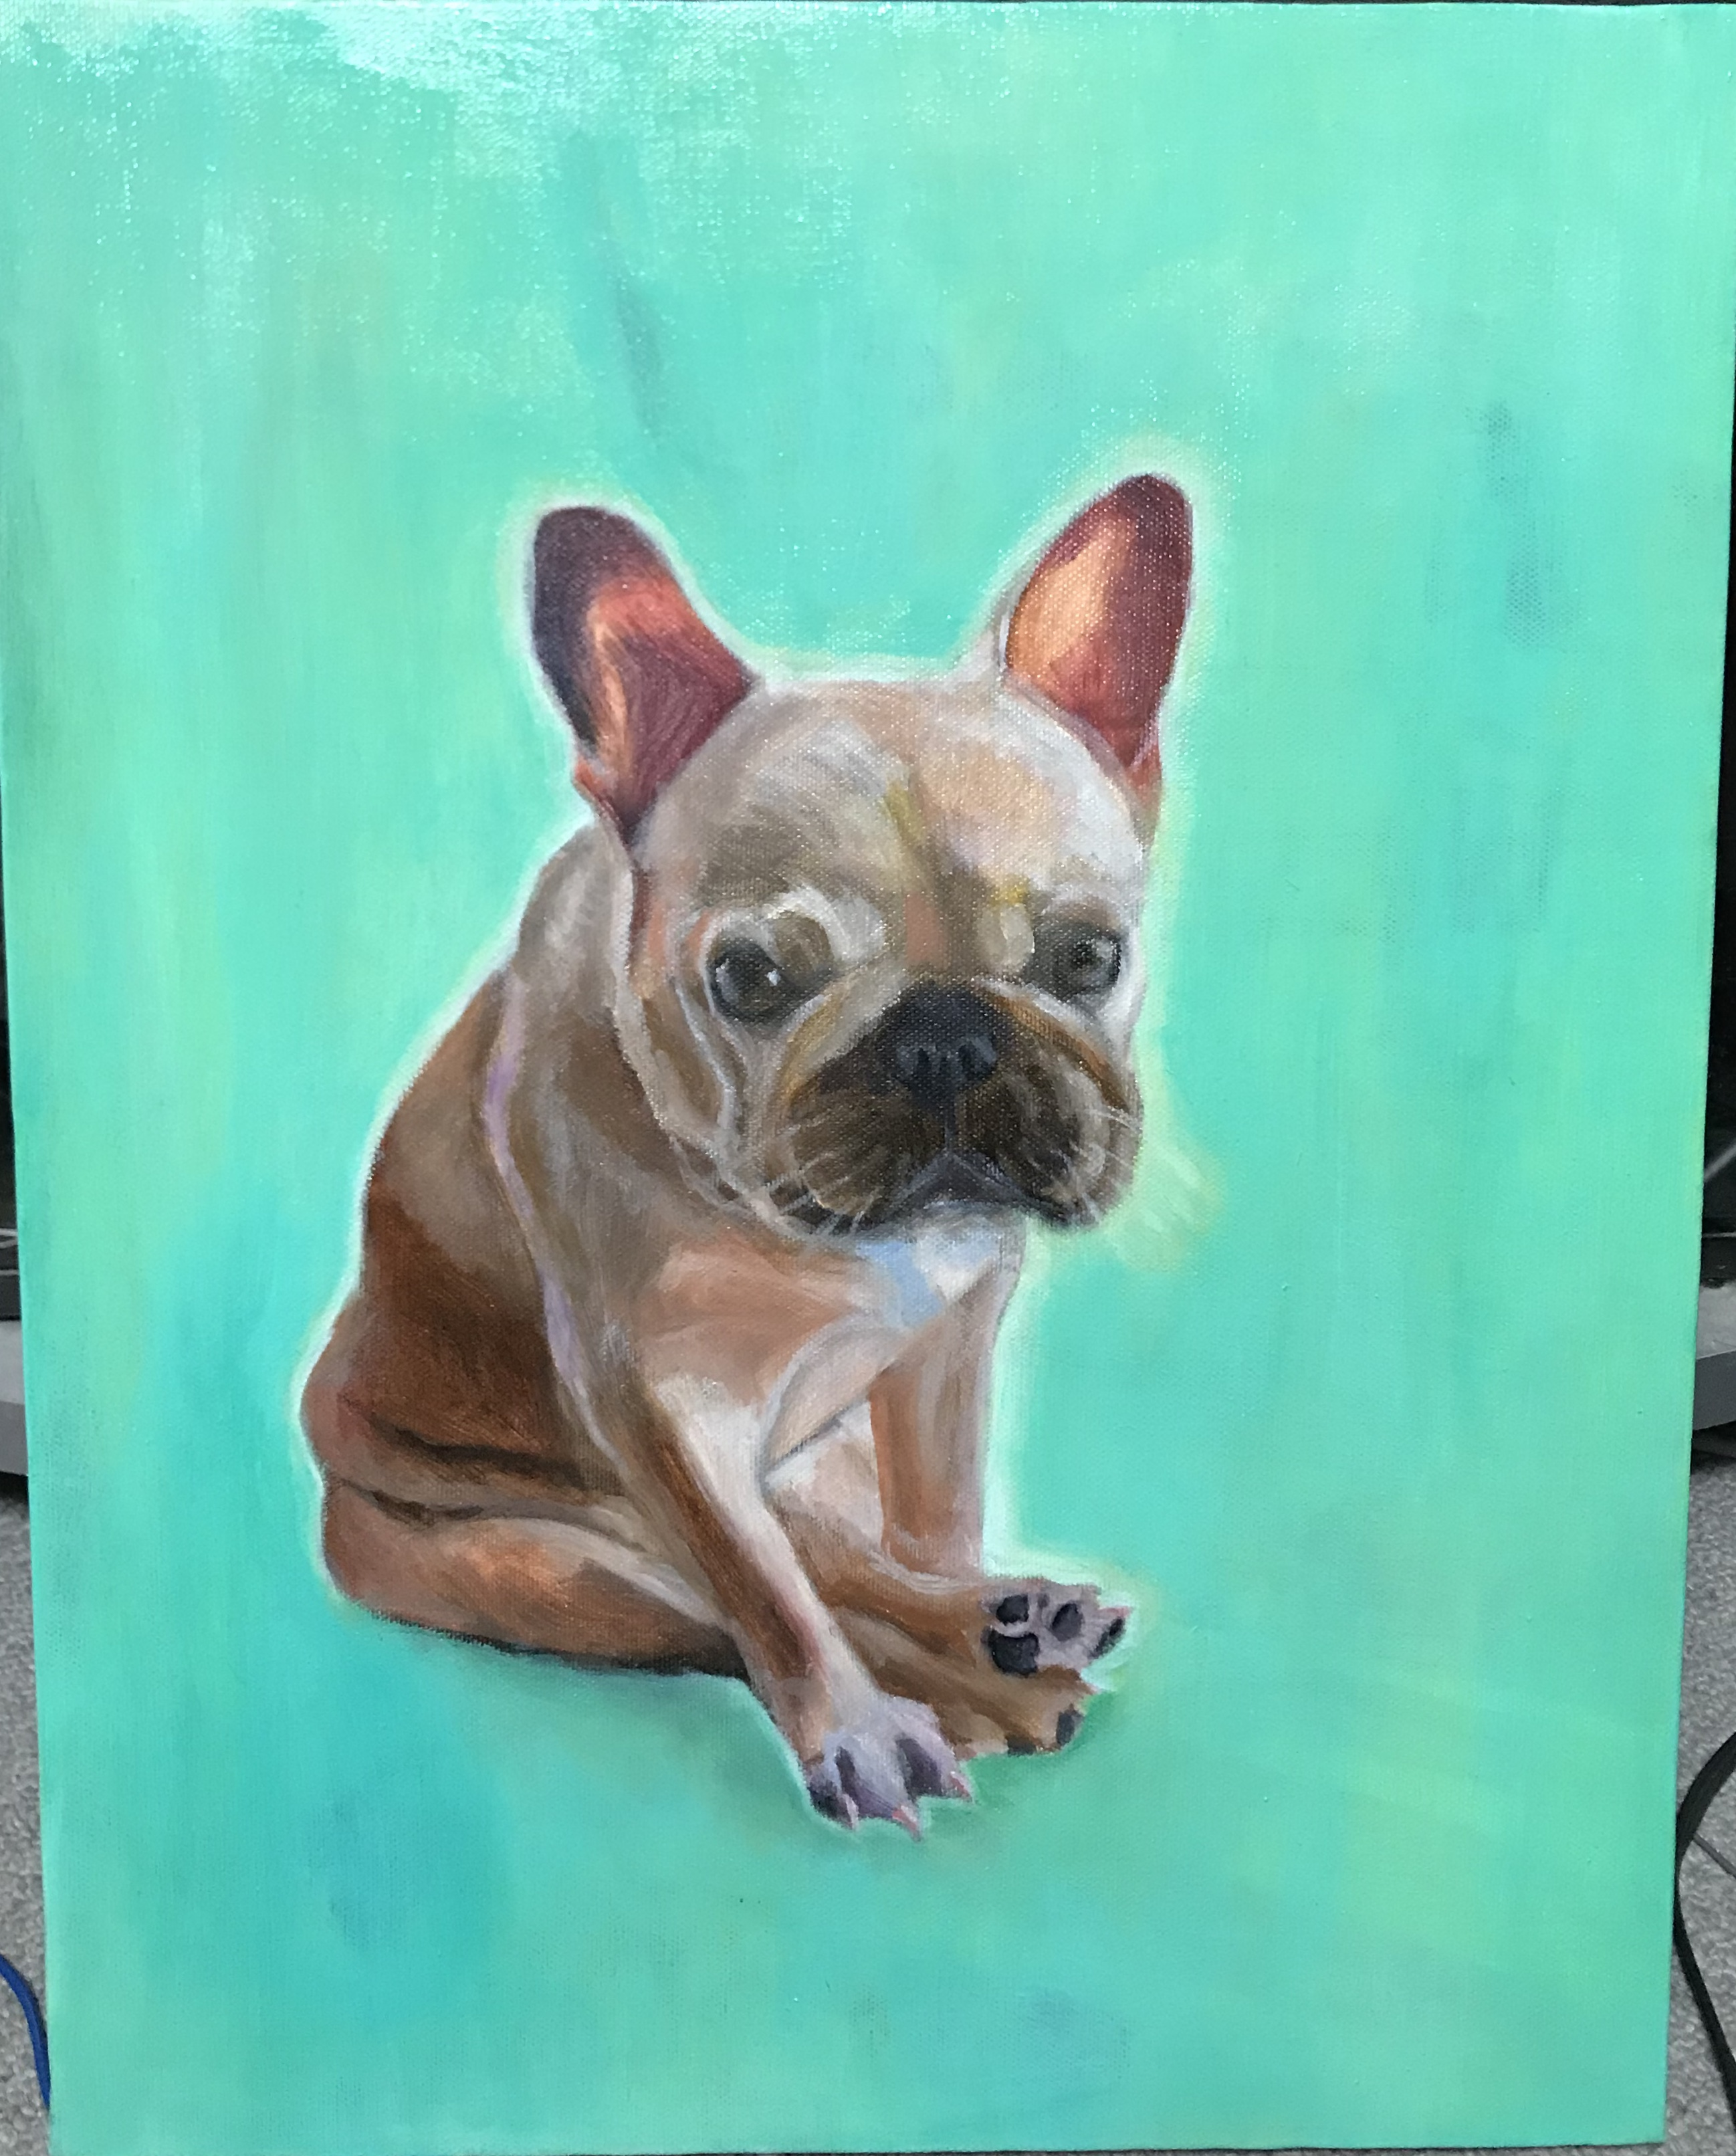
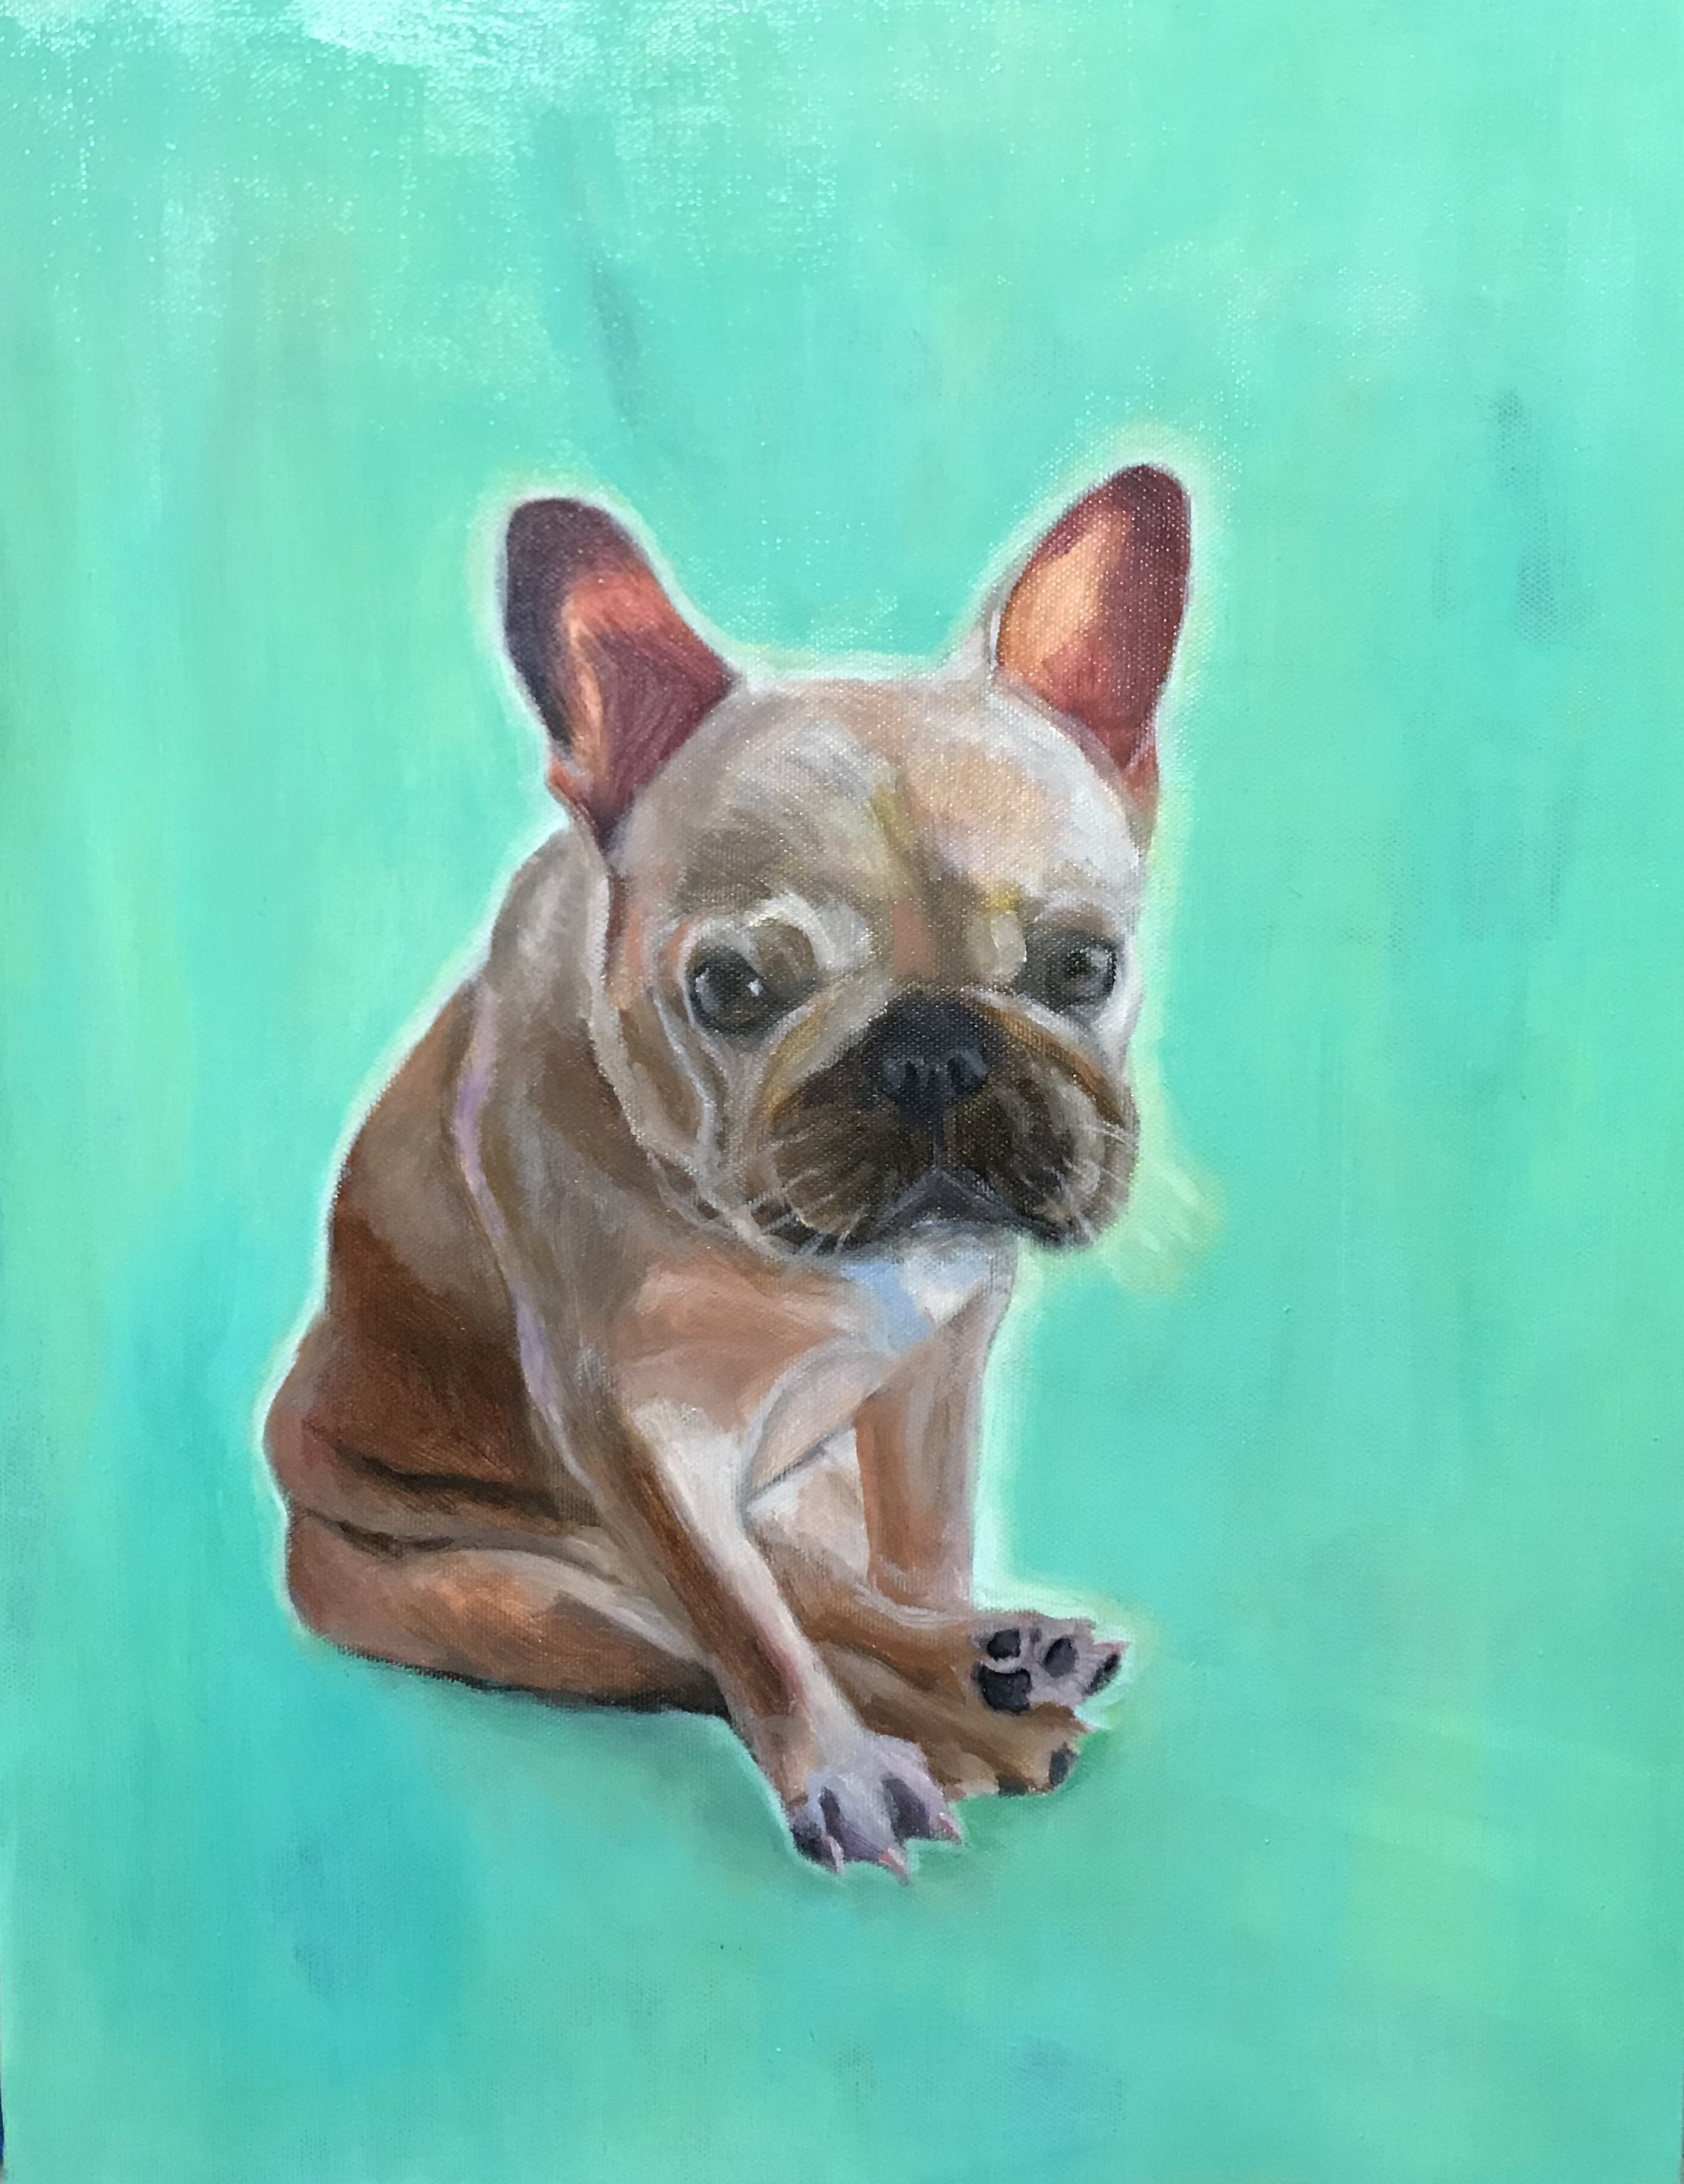
ポートフォリオを更新

diff --git a/index.html b/index.html
@@ -257,26 +257,26 @@
 
   <script>
     const photos = [
-      { id: 10, file: 'wolf3.jpeg', cat: 'art', w: 800, h: 600, title: '作品タイトル 01「蒼の狼」', specs: { size: 'F6号 (410×318mm)', date: '2024年 3月', time: '1週間', medium: '油彩・キャンバス' }, concept: '光と影のコントラストを意識し、静かにたたずむ狼を描きました。毛並みの質感や横顔の力強さを丁寧に表現し、自然の中で生きる狼の落ち着いた雰囲気が伝わる作品を目指しました。' },
-      { id: 20, file: 'degi1.png',cat: 'illustration', w: 600, h: 800, title: '作品タイトル 02「Neon Wolf」', specs: { size: '(500×500px)', date: '2024年 1月', time: '1日', tool: 'Medibang' }, concept: '狼が走り出す瞬間をイメージし、動きやスピード感が伝わるように制作しました。鮮やかな色使いで躍動感を表現し、普段のリアルな作品とは違った雰囲気に挑戦しました。' },
-      { id: 30, file: 'aq3.jpeg', cat: 'art', w: 800, h: 530, title: '作品タイトル 03「絆」', specs: { size: 'F6号 (410×318mm)', date: '2023年 11月', time: '3週間', medium: 'アクリル・キャンバス' }, concept: '狼同士の絆や安心感が伝わる作品を目指しました。それぞれの表情や毛並みの違いを意識し、温かい雰囲気になるよう制作しました。' },
+      { id: 10, file: 'wolf3.jpeg', cat: 'art', w: 800, h: 600, title: '作品タイトル 01「蒼い空」', specs: { size: 'F6号 (410×318mm)', date: '2014年 9月', time: '1週間', medium: '油彩・キャンバス' }, concept: '光と影のコントラストを意識し、青空に静かにたたずむ狼を描きました。毛並みの質感や横顔の力強さを丁寧に表現し、自然の中で生きる狼の落ち着いた雰囲気が伝わる作品を目指しました。' },
+      { id: 20, file: 'degi1.png',cat: 'illustration', w: 600, h: 800, title: '作品タイトル 02「Neon Wolf」', specs: { size: '(500×500px)', date: '2016年 1月', time: '1日', tool: 'Medibang' }, concept: '狼が走り出す瞬間をイメージし、動きやスピード感が伝わるように制作しました。鮮やかな色使いで躍動感を表現し、普段のリアルな作品とは違った雰囲気に挑戦しました。' },
+      { id: 30, file: 'aq3.jpeg', cat: 'art', w: 800, h: 530, title: '作品タイトル 03「絆」', specs: { size: 'F6号 (410×318mm)', date: '2014年 9月', time: '3週間', medium: 'アクリル・キャンバス' }, concept: '狼同士の絆や安心感が伝わる作品を目指しました。それぞれの表情や毛並みの違いを意識し、温かい雰囲気になるよう制作しました。' },
       { id: 40, file: 'cat3.jpeg',cat: 'photo', w: 850, h: 600, title: '作品タイトル 04(陽だまりのひと休み)', specs: { camera: 'iphone 15 Pro', date: '2024年 9月', }, concept: '台湾の街角でくつろぐ猫を、猫の目線に合わせて撮影しました。猫が安心して過ごす自然な姿を切り取り、背景をぼかすことで被写体が引き立つよう工夫しています。穏やかな空気感が伝わる写真を目指しました。' },
       { id: 50, file: 'wolf4.jpeg', cat: 'art', w: 600, h: 900, title: '作品タイトル 05「漆黒」', specs: { size: 'F4号 (330×240mm)', date: '2023年 9月', time: '3週間', medium: '油彩・麻布' }, concept: '黒い毛並みの質感を表現するため、光の当たり方や色の変化を意識して制作しました。力強い視線が印象に残る作品を目指しました。' },
-      { id: 60, file: 'line0.png', cat: 'illustration', w: 900, h: 500, title: '作品タイトル 06「ハスキーのりん」', specs: { size: '(370×320px)', date: '2026年 6月', time: '1週間', medium: '木炭・画用紙' }, concept: '愛犬をモチーフに、親しみやすいLINEスタンプを制作しました。デジタルイラスト制作の経験を増やすことも目的とし、日常で使いやすい表情やポーズを意識してデザインしています。' },
+      { id: 60, file: 'line0.png', cat: 'illustration', w: 900, h: 500, title: '作品タイトル 06「ハスキーのりん」', specs: { size: '(370×320px)', date: '2026年 6月', time: '1週間', tool: 'Medibang' }, concept: '愛犬をモチーフに、親しみやすいLINEスタンプを制作しました。デジタルイラスト制作の経験を増やすことも目的とし、日常で使いやすい表情やポーズを意識してデザインしています。' },
       { id: 70, file: '260326_banner300_13.jpg', cat: 'graphic', w: 800, h: 800, title: '作品タイトル 07「Autumn Latte Banner」', specs: { size: '(300×250px)', date: '2026年 4月', time: '1日間', tool: 'Photoshop' }, concept: '秋らしい温かみのある色合いを取り入れ、季節感と商品の魅力が伝わるデザインを制作しました。短時間でも内容が伝わるよう、情報の優先順位を意識しています。' },
       { id: 80, file: 'fox1.jpeg', cat: 'art', w: 600, h: 750, title: '作品タイトル 08「月に謳う」', specs: { size: 'F4号 (330×240mm)', date: '2023年 12月', time: '3週間', medium: '油彩・キャンバス' }, concept: '夜桜と満月を背景に、静かで幻想的な雰囲気を表現した作品です。月明かりに照らされたキツネが自然と調和するよう、色合いや光の表現を工夫しました。' },
       { id: 90, file: 'wolf5.jpeg', cat: 'art', w: 750, h: 560, title: '作品タイトル 09「穏やかな眼差し」', specs: { size: 'F4号 (330×240mm)', date: '2023年 8月', time: '3週間', medium: '油彩・キャンバス' }, concept: '友人からの依頼で制作した作品です。温かみのある狼をイメージし、穏やかな表情や柔らかな毛並みを丁寧に描きました。依頼者のイメージに寄り添い、優しさが伝わる作品を目指しました。' },
       { id: 100, file: '113.jpg', cat: 'graphic', w: 800, h: 600, title: '作品タイトル 10「TOFFY ノベルティキャンペーンバナー」', specs: { size: '1200×500px ', date: '2026年 6月', time: '約60分', tool: 'Illustrator' }, concept: 'TOFFYのレトロでかわいらしい雰囲気を大切にしながら、ガチャガチャの「何が出るか分からないワクワク感」を表現しました。プレゼントキャンペーンであることが一目で伝わり、商品を見た人がお得感や楽しさを感じられるデザインを目指しました。' },
       { id: 110, file: 'degi4.png', cat: 'illustration', w: 600, h: 850, title: '作品タイトル  11 依頼制作（ペット肖像画）', specs: { size: '(1200×1175px) ', date: '2017年 6月', time: '3日間', tool: 'MediBang' }, concept: '友人から依頼を受け、愛犬と小鳥をモチーフにSNSアイコンを制作しました。アイコンとして使用しやすいよう、シンプルで親しみやすいデザインを意識しています。' },
-      { id: 120,  file: 'wolf6.jpeg',  cat: 'art', w: 900, h: 550, title: '作品タイトル 12「孤高」', specs: { size: 'F1号 (220×160mm)', date: '2020年 2月', time: '2日間', medium: 'アクリル・キャンバス' }, concept: '正面から見つめる狼の存在感をテーマに制作しました。目線が印象的になるよう構図を工夫し、毛並みや陰影を細かく描き込むことで、力強さを表現しています。' },
+      { id: 120,  file: 'wolf6.jpeg',  cat: 'art', w: 900, h: 550, title: '作品タイトル 12「孤高」', specs: { size: 'F1号 (220×160mm)', date: '2018年 4月', time: '2日間', medium: 'アクリル・キャンバス' }, concept: '正面から見つめる狼の存在感をテーマに制作しました。目線が印象的になるよう構図を工夫し、毛並みや陰影を細かく描き込むことで、力強さを表現しています。' },
       { id: 130, file: 'copy260330_leaflet_13.jpg', cat: 'graphic', w: 700, h: 700, title: '作品タイトル 13「Webプログラマー養成科」 募集チラシ', specs: { size: '(1200×500px) ', date: '2026年 3月', time: '3日間', tool: 'Illustrator' }, concept: 'Webプログラマーを目指す未経験者を対象に、安心して学べる職業訓練校をイメージして制作しました。受講期間や募集人数などの重要な情報を目立たせ、全体を青系でまとめることで、信頼感と分かりやすさを意識しています。' },
       { id: 140, file: 'aq1.jpeg', cat: 'art', w: 600, h: 800, title: '作品タイトル 14「Music Lover」', specs: { size: 'F2号 (530×455mm)', date: '2023年 6月', time: '3日間', medium: 'アクリル・キャンバス' }, concept: '普段のリアルな作品とは違い、遊び心のある作品に挑戦しました。サングラスとヘッドホンを取り入れ、音楽を楽しむ雰囲気を表現しています。' },
       { id: 150, file: '1dezaincomp_13.jpg', cat: 'webdesign', w: 800, h: 600, title: '作品タイトル 15「みんなのパソコン教室 LP」', specs: { size: '(1200×500px) ', date: '2026年 5月', time: '5日間', tool: 'figma' }, concept: 'パソコン初心者でも安心して通える雰囲気を表現するため、温かみのある配色と余白を意識してデザインしました。見やすさと使いやすさを重視し、親しみやすいWebサイトを目指しました。' },
       { id: 160,  file: 'dog1.jpeg', cat: 'art', w: 750, h: 700, title: '作品タイトル 16「兄弟」', specs: { size: 'F4号 (330×240mm)', date: '2023年 4月', time: '1ヶ月', medium: '油彩・キャンバス' }, concept: '依頼者から「架空の柴犬の子犬の兄弟」をテーマにご依頼いただき、制作しました。ご要望をもとにポーズや背景を取り入れ、イメージに沿った作品になるよう丁寧に仕上げました。' },
       { id: 170,  file: 'wolf1.jpeg', cat: 'art', w: 600, h: 900, title: '作品タイトル 17「彩狼」', specs: { size: 'F4号 (330×240mm)', date: '2023年 3月', time: '1ヶ月', medium: '油彩・麻布' }, concept: '現実にはない鮮やかな色彩を取り入れ、狼の力強さと美しさを表現しました。色の重なりや筆のタッチを生かし、リアルさの中にも個性を感じられる作品を目指しています。' },
       { id: 180, file: 'degi8.jpg',cat: 'illustration', w: 900, h: 600, title: '作品タイトル 18「眠る狼」', specs: { size: '(400×400px) ', date: '2025年 8月', time: '3日間', tool: 'Medibang' }, concept: '丸く眠る狼をモチーフに制作したオリジナルイラストです。安心して眠る姿から温かさや落ち着きを感じてもらえるよう、柔らかな色合いと丸みのある構図で表現しました。アイコンやグッズにも展開しやすいデザインを意識しています。' },
-      { id: 190, file: 'bird1.jpeg', cat: 'art', w: 750, h: 950, title: '作品タイトル 19「松と梟 日本画」', specs: { size: 'F4号 (330×240mm)', date: '2018年 5月', time: '1ヶ月', medium: '岩絵の具・膠(にかわ)' }, concept: '森の中で静かに佇むフクロウを描き、落ち着いた雰囲気と自然の美しさを表現しました。羽の質感や松の木々との調和を意識して制作しています。' },
-      { id: 200, file: 'aq2.jpeg', cat: 'art', w: 850, h: 650, title: '作品タイトル 20「百獣の風格」', specs: { size: 'F4号 (330×240mm)', date: '2022年 12月', time: '2週間', medium: 'アクリル・キャンバス' }, concept: '堂々とした虎の存在感を表現することをテーマに制作しました。力強い眼差しや毛並みの流れを丁寧に描き、静かな迫力が伝わる作品を目指しています。' },
+      { id: 190, file: 'bird1.jpeg', cat: 'art', w: 750, h: 950, title: '作品タイトル 19「松と梟 日本画」', specs: { size: 'F4号 (330×240mm)', date: '2017年 7月', time: '1ヶ月', medium: '岩絵の具・膠(にかわ)' }, concept: '森の中で静かに佇むフクロウを描き、落ち着いた雰囲気と自然の美しさを表現しました。羽の質感や松の木々との調和を意識して制作しています。' },
+      { id: 200, file: 'aq2.jpeg', cat: 'art', w: 850, h: 650, title: '作品タイトル 20「百獣の風格」', specs: { size: 'F4号 (330×240mm)', date: '2014年 4月', time: '2週間', medium: 'アクリル・キャンバス' }, concept: '堂々とした虎の存在感を表現することをテーマに制作しました。力強い眼差しや毛並みの流れを丁寧に描き、静かな迫力が伝わる作品を目指しています。' },
       { id: 210, file: 'draw2.jpeg', cat: 'art', w: 700, h: 600, title: '作品タイトル 21 依頼制作（色鉛筆画）', specs: { size: '(100×148mm)', date: '2022年 11月', time: '2日間', medium: '鉛筆・色鉛筆・ケント紙' }, concept: 'ハスキーが好きな依頼者のために制作した色鉛筆作品です。依頼内容をもとにポーズを考え、優しい表情や自然な毛並みの流れを意識して描きました。色鉛筆ならではの柔らかな質感を生かし、温かみのある作品を目指しています。' },
       { id: 220, file: '13_recruit_banner.jpg', cat: 'graphic', w: 650, h: 900, title: '作品タイトル 22「物流会社 求人募集バナー」', specs: { size: '(1200×682px)', date: '2026年 7月', time: '約60分', tool: 'Illustrator' }, concept: '物流会社の求人バナーを想定し、職種と時給が一目で伝わるよう情報の優先順位を意識して制作しました。青と黄色を基調に信頼感と視認性を高め、アイコンやボタンを用いて勤務条件や導線を分かりやすく整理しています。。' },
       { id: 230, file: '260327_banner300_13.jpg', cat: 'graphic', w: 900, h: 600, title: '作品タイトル 23「エンジニア転職バナー」', specs: { size: '(300×250px)', date: '2026年 3月', time: '3日間', tool: 'Photoshop' }, concept: '未経験からエンジニアを目指す人をターゲットに制作しました。「未経験から」という言葉を大きく配置し、転職成功率など興味を引く情報を強調することで、短時間でも内容が伝わるバナーを目指しました。' },
@@ -284,21 +284,23 @@
       { id: 250, file: 'wolf10.png', cat: 'art', w: 850, h: 600, title: '作品タイトル 25「遥かを見つめて」', specs: { size: 'B3 (515×364mm)', date: '2022年 7月', time: '3週間', medium: '油彩・パネル' }, concept: '横顔の狼を通して、前を見据える力強さを表現しました。毛並みや光の当たり方を細かく描き込み、落ち着いた雰囲気の中にも野生らしい存在感が伝わる作品を目指しています。' },
       { id: 260,  file: 'draw1.jpeg',  cat: 'art', w: 950, h: 700, title: '作品タイトル 26「寄り添う時間」', specs: { size: 'A4 (297×210mm)', date: '2022年 6月', time: '2週間', medium: '油彩色鉛筆・ケント紙' }, concept: '寄り添う2頭の狼を描き、互いを信頼し支え合う姿を表現しました。色鉛筆ならではの柔らかな色合いを生かし、温かみのある雰囲気に仕上げています。' },
       { id: 270, file: 'aq5.jpeg', cat: 'art', w: 700, h: 700, title: '作品タイトル 27「笑顔」', specs: { size: 'A4 (297×210mm)', date: '2022年 5月', time: '5日間', medium: 'アクリル・キャンバス' }, concept: '明るく親しみやすい表情をテーマに制作しました。優しい笑顔が印象に残るよう、目元や口元の表情を丁寧に描き、見る人が温かい気持ちになれる作品を目指しています。' },
-      { id: 280, file: 'wolf7.jpeg', cat: 'art', w: 600, h: 850, title: '作品タイトル 28「眼光」', specs: { size: 'F12号 (606×500mm)', date: '2022年 4月', time: '1か月', medium: '油彩・麻布' }, concept: 'コンセプトをここに書きます。作品に込めた思いや制作背景、テーマなどを自由に記述してください。' },
+      { id: 280, file: 'wolf7.jpeg', cat: 'art', w: 600, h: 850, title: '作品タイトル 28「眼光」', specs: { size: 'F12号 (606×500mm)', date: '2018年 4月', time: '1か月', medium: '油彩・麻布' }, concept: '狼の力強さの中にある落ち着いた表情をテーマに制作しました。視線を印象的に見せるため、目の輝きや毛並みの立体感を丁寧に描いています。静けさの中にも存在感を感じられる作品を目指しました。' },
       { id: 290, file: 'kin1.png', cat: 'art', w: 900, h: 650, title: '作品タイトル 29「金色の海岸」', specs: { size: 'F4号 (330×240mm)', date: '2022年 3月', time: '1か月', medium: '岩絵の具・金箔・パネル' }, concept: 'コンセプトをここに書きます。作品に込めた思いや制作背景、テーマなどを自由に記述してください。' },
-      { id: 300, file: 'wolf9.jpeg', cat: 'art', w: 750, h: 950, title: '作品タイトル 30「威嚇」', specs: { size: 'F4号 (330×240mm)', date: '2022年 2月', time: '3週間', medium: '油彩・パネル' }, concept: 'コンセプトをここに書きます。作品に込めた思いや制作背景、テーマなどを自由に記述してください。' },
+      { id: 300, file: 'wolf9.jpeg', cat: 'art', w: 750, h: 950, title: '作品タイトル 30「牙をむく瞬間」', specs: { size: 'F4号 (330×240mm)', date: '2022年 2月', time: '3週間', medium: '油彩・パネル' }, concept: '怒りを見せる狼の表情をテーマに制作しました。鋭い目つきや口元の迫力を意識しながら、毛並みや陰影も丁寧に描いています。力強さと野生らしさが伝わる作品を目指しました。' },
       { id: 310, file: 'degi6.png', cat: 'illustration', w: 800, h: 600, title: '作品タイトル 31「戦う狼」', specs: { size: 'A4(297×210mm) ', date: '2022年 1月', time: '1日間', tool: 'Medibang' }, concept: 'スピード感と力強さをテーマに制作したデジタルイラストです。剣をくわえて駆け抜ける瞬間を描き、躍動感が伝わる構図を意識しました。毛並みの流れや表情にもこだわり、迫力のある作品を目指しています。' },
-      { id: 320, file: 'aq6.jpeg', cat: 'art', w: 650, h: 600, title: '作品タイトル 32', specs: { size: 'F8号 (455×380mm)', date: '2021年 12月', time: '3週間', medium: '油彩・キャンバス' }, concept: 'コンセプトをここに書きます。作品に込めた思いや制作背景、テーマなどを自由に記述してください。' },
-      { id: 330, file: 'degi8.png', cat: 'illustration', w: 600, h: 900, title: '作品タイトル 33「彩りの羊」', specs: { size: '(300×300px)', date: '2021年 11月', time: '2日間', tool: 'Medibang' }, concept: '羊のイラストをベースに、コラージュ表現を加えて制作しました。色や形を重ねることで、幻想的で温かみのある雰囲気を表現しています。イラストとは違った表現方法に挑戦した作品です。' },
-      { id: 340, file: 'aq4.jpeg', cat: 'art', w: 900, h: 600, title: '作品タイトル 34', specs: { size: ' A4(297×210mm)', date: '2021年 10月', time: '1週間', medium: 'アクリル・キャンバス' }, concept: 'コンセプトをここに書きます。作品に込めた思いや制作背景、テーマなどを自由に記述してください。' },
-      { id: 350, file: 'momo.jpeg', cat: 'art', w: 750, h: 750, title: '作品タイトル 35', specs: { size: 'A4(297×210mm)', date: '2021年 9月', time: '6日間', medium: '色鉛筆' }, concept: 'コンセプトをここに書きます。作品に込めた思いや制作背景、テーマなどを自由に記述してください。' },
-      { id: 360, file: 'hsky1.jpeg', cat: 'art', w: 850, h: 600, title: '作品タイトル 36', specs: { size: 'F10号 (530×455mm)', date: '2021年 8月', time: '4週間', medium: '油彩・麻布' }, concept: 'コンセプトをここに書きます。作品に込めた思いや制作背景、テーマなどを自由に記述してください。' },
+      { id: 320, file: 'aq6.jpeg', cat: 'art', w: 650, h: 600, title: '作品タイトル 32「蒼狼」', specs: { size: 'F1号 (220×160mm)', date: '2021年 12月', time: '1日間', medium: 'アクリル・色鉛筆・パネル' }, concept: '青をテーマに制作した狼の作品です。毛並みの色使いに工夫を加え、幻想的な雰囲気を表現しました。狼らしい力強い表情を大切にしながら、印象に残る一枚を目指しています。' },
+      { id: 330, file: 'degi8.png', cat: 'illustration', w: 600, h: 900, title: '作品タイトル 33「彩りをまとう羊」', specs: { size: '(300×300px)', date: '2021年 11月', time: '2日間', tool: 'Medibang' }, concept: '羊のイラストを描き、その上からコラージュを重ねて制作しました。さまざまな色や素材を組み合わせることで、柔らかさと個性的な雰囲気を表現しています。イラストとコラージュを組み合わせた表現に挑戦した作品です。' },
+      { id: 340, file: 'aq4.jpeg', cat: 'art', w: 900, h: 600, title: '作品タイトル 34「やさしい微笑み」', specs: { size: ' A4(297×210mm)', date: '2021年 10月', time: '1週間', medium: 'アクリル・色鉛筆・パネル' }, concept: '穏やかな笑顔を見せる狼を描きました。優しい表情と柔らかな毛並みを意識し、怖い印象ではなく親しみやすさが伝わる作品を目指しています。。' },
+      { id: 350, file: 'momo.jpeg', cat: 'art', w: 750, h: 750, title: '作品タイトル 35「小さなまなざし」', specs: { size: 'A4(297×210mm)', date: '2021年 9月', time: '6日間', medium: '色鉛筆' }, concept: '家で飼っていたフクロモモンガの愛らしい表情が伝わるように制作しました。大きな瞳や柔らかな毛並みを丁寧に描き、小さな命の温かさを感じられる作品を目指しています。' },
+      { id: 360, file: 'hsky1.jpeg', cat: 'art', w: 850, h: 600, title: '作品タイトル 36「いつもの場所で」', specs: { size: 'F10号 (530×455mm)', date: '2021年 8月', time: '4週間', medium: '油彩・麻布' }, concept: 'ハスキーの凛とした表情をテーマに制作しました。青みのある毛並みや優しい瞳を丁寧に描き、力強さの中にも親しみやすさを感じられる作品を目指しています。飼い主の帰りを静かに待つ姿をイメージし、穏やかな時間が伝わるように仕上げました。' },
       { id: 370, file: 'hukei2.jpg', cat: 'photo', w: 850, h: 600, title: '作品タイトル 37(朝霧に包まれる山並み)', specs: { camera: 'iphone 15 Pro', date: '2024年9月', }, concept: '台湾・苗栗で撮影した風景写真です。朝の澄んだ空気の中、山並みと湖面が織りなす静かな景色に惹かれ撮影しました。湖に映る山々や空の色が美しく見える構図を意識し、その場の穏やかな空気感が伝わる一枚を目指しました。' },
       { id: 380, file: 'yakei2.jpg', cat: 'photo', w: 850, h: 600, title: '作品タイトル 38(夜を彩る桜並木)', specs: { camera: 'iphone 11 Pro', date: '2023年4月', }, concept: '昼間とは異なる表情を見せる夜桜を撮影しました。ライトアップされた桜と水面に映る光を取り入れ、幻想的な雰囲気を表現しています。同じ場所でも時間帯によって異なる魅力が感じられる一枚を目指しました。' },
       { id: 390, file: 'hana1.jpg', cat: 'photo', w: 850, h: 600, title: '作品タイトル 39(水面に咲く一輪)', specs: { camera: 'iphone 11 Pro', date: '2024年9月', }, concept: '池に浮かぶ睡蓮を主役に撮影しました。周囲の葉とのバランスを考え、一輪の花が自然と目を引く構図を意識しています。水面の反射も取り入れ、落ち着いた雰囲気を表現しました。' },
       { id: 400, file: 'hukei6.jpg', cat: 'photo', w: 850, h: 600, title: '作品タイトル 40(春の訪れ)', specs: { camera: 'iphone 11 Pro', date: '2023年4月', }, concept: '夜桜を撮影した場所を、昼間にも訪れて撮影しました。自然光の中で咲く桜と川沿いの景色を広く写し、春らしい穏やかな空気感を表現しています。同じ風景でも昼と夜で異なる魅力を楽しめることを意識しました。' },
       { id: 410, file: 'cat2.jpg', cat: 'photo', w: 850, h: 600, title: '作品タイトル 41(猫の目線で見た台湾)', specs: { camera: 'iphone 15 Pro', date: '2024年9月', }, concept: '台湾で出会った猫を、猫と同じ目線までしゃがんで撮影しました。背景には街並みや山の風景を取り入れ、その場所で暮らす猫の日常が伝わるよう構図を工夫しています。猫の自然な表情を大切にした一枚です。' },
-      { id: 420, file: 'umi.jpg', cat: 'photo', w: 850, h: 600, title: '作品タイトル 42(静かな夕暮れ)', specs: { camera: 'iphone 5s', date: '2015年9月', }, concept: '北海道での日没後の空と水面が映り込む景色を撮影しました。空の色がゆっくり変化する時間帯を選び、一日の終わりならではの静けさを表現しています。落ち着いた雰囲気が伝わるよう、シンプルな構図で仕上げました。' },];
+      { id: 420, file: 'umi.jpg', cat: 'photo', w: 850, h: 600, title: '作品タイトル 42(静かな夕暮れ)', specs: { camera: 'iphone 5s', date: '2015年9月', }, concept: '北海道での日没後の空と水面が映り込む景色を撮影しました。空の色がゆっくり変化する時間帯を選び、一日の終わりならではの静けさを表現しています。落ち着いた雰囲気が伝わるよう、シンプルな構図で仕上げました。' },
+      { id: 430, file: 'wolf2.jpeg', cat: 'art', w: 850, h: 600, title: '作品タイトル 43「月へ響く遠吠え」', specs: { size: 'F4号 (333×242mm)', date: '2018年 5月', time: '1週間', medium: '油彩・麻布' }, concept: '狼が空へ向かって遠吠えをする姿を描きました。力強い表情だけでなく、どこか切なさも感じられるように意識し、毛並みや光の表現を丁寧に描いています。見る人それぞれが、狼の思いや自然とのつながりを自由に感じられる作品を目指しました。' },
+    ];
       
       
 window.addEventListener("load", () => {